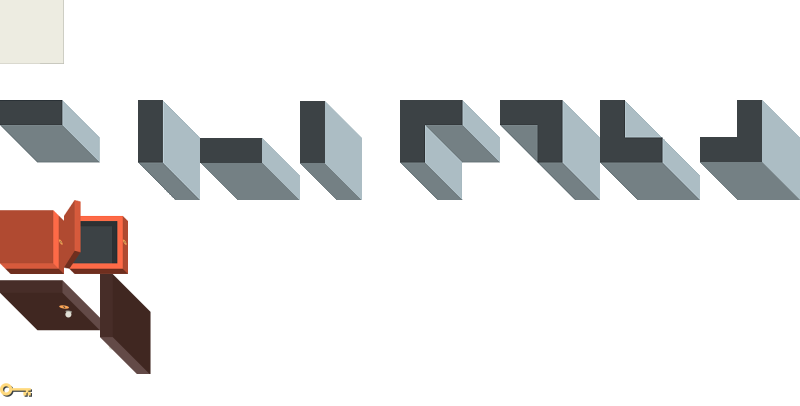
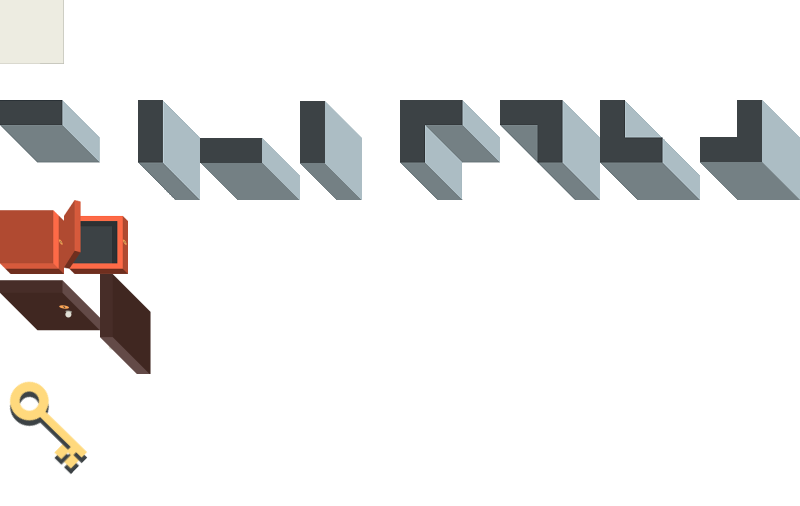
Cleaning up inventory

diff --git a/src/game/scenes/GameScene.js b/src/game/scenes/GameScene.js
@@ -23,25 +23,25 @@ export default class GameScene extends BaseScene {
             level1
         ]
 
-        var  game = new Game();
+        var game = new Game();
         game.init(levels);
         game.start();
 
         this.map = game.currentMap;
 
-       // var renderer = new GameRenderer(game, this, scale);
-        this.update();
+        // var renderer = new GameRenderer(game, this, scale);
+        this._update();
     }
 
-    update() {
-        this.render();
+    _update() {
+        this._render();
 
         if (this.map.levelComplete) {
             setTimeout(() => this.scene.start("levelcomplete"), 2000);
         }
     }
 
-    render() {
+    _render() {
         this.clear();
 
         this._renderFloor();
@@ -77,31 +77,40 @@ export default class GameScene extends BaseScene {
     _renderInventory() {
         var itemsWidth = this.map.inventory.items.length * (64 * this.scale);
 
-        // TODO: Figure out where these come from
-        var itemsX = ((this.game.config.width * this.scale) / 2) - (itemsWidth / 2);
-        var itemsY = (this.game.config.width * this.scale) + (200 * this.scale);
+        // Draw inventory box
+        var rect = this.drawRectangle(this.game.config.width / 2, this._posToPix(18), this.game.config.width - 100, 200, 0xEDECE1);
+        rect.setOrigin(.5);
 
-        for (var i = 0; i < this.map.inventory.items.length; i++) {
-            var item = this.map.inventory.items[i];
-            var x = itemsX + (i * (64 * this.scale));
+        var itemsX = (this.game.config.width) / 2;
+        var itemsY = this._posToPix(18);
 
-            if (this.map.inventory.selectedItem == item) {
-                this.drawCircle(x, itemsY, (32 * this.scale), "#fff")
+        if (this.map.inventory.items.length == 0) {
+            this.drawText(rect.x, rect.y, "Inventory is empty", "#DDD");
+        } else {
+            for (var i = 0; i < this.map.inventory.items.length; i++) {
+                var item = this.map.inventory.items[i];
+
+                var x = itemsX + (i * (64 * this.scale));
+
+                if (this.map.inventory.selectedItem == item) {
+                    this.drawCircle(x, itemsY, 64, 0xB04A31)
+                }
+
+                var image = this.drawImage(x, itemsY, item.imageName, 1, 1);
+                image.setOrigin(.5);
+
+                this.setOnTap(image, () => {
+                    this.map.selectItem(item);
+                    this._update();
+                });
             }
-
-            var image = this.drawImage(x, itemsY, item.imageName);
-
-            this.setOnTap(image, () => {
-                this.map.selectItem(item);
-                this.update();
-            });
         }
     }
 
     _setObjectOnTap(tile, object) {
         this.setOnTap(tile, () => {
             this.map.trigger('tap', object.id);
-            this.update();
+            this._update();
         });
     }
 

diff --git a/src/game/scenes/BaseScene.js b/src/game/scenes/BaseScene.js
@@ -11,7 +11,7 @@ export default class BaseScene extends Phaser.Scene {
     }
 
     addSeparator(size, position) {
-        this.add.rectangle(this.game.config.width / 2, this._posToPix(position), size, 4, 0xEDECE1);
+        return this.drawRectangle(this.game.config.width / 2, this._posToPix(position), size, 4, 0xEDECE1);
     }
 
     addText(text, fontSize, position) {
@@ -53,33 +53,41 @@ export default class BaseScene extends Phaser.Scene {
         return tile;
     }
 
-    drawImage(x, y, frame, depth) {
+    drawImage(x, y, frame, depth, scale) {
         var image = this.add.image(x, y);
         image.setTexture('map');
         image.setFrame(frame)
         image.setDepth(depth);
-        image.setScale(this.scale);
+        image.setScale(scale ? scale : this.scale);
 
         this.images.push(image);
         return image;
     }
 
     drawCircle(x, y, radius, color) {
-        var circle = this.add.circle(x * this.scale, y * this.scale, radius, color);
+        var circle = this.add.circle(x, y, radius, color);
         this.images.push(circle);
+        return circle;
     }
 
-    drawText(x, y, text) {
-        var txt = this.add.text((500 * this.scale) / 2, y, text, { 
+    drawRectangle(x, y, width, height, color) {
+        var rect = this.add.rectangle(x, y, width, height, color);
+        this.images.push(rect);
+        return rect;
+    }
+
+    drawText(x, y, text, color) {
+        var txt = this.add.text(this.game.config.width / 2, y, text, { 
             fontFamily: 'Abril', 
             align: 'center',
             fontSize: 52, 
-            color: '#EDECE1',
-            wordWrap: { width: 500 * this.scale },
+            color: color ? color : '#EDECE1'
         });
+        
         txt.setOrigin(.5)
 
         this.images.push(txt);
+        return txt;
     }
 
     setOnTap(element, event) {

diff --git a/src/app.js b/src/app.js
@@ -13,7 +13,7 @@ var config = {
     physics: {
         default: 'arcade',
     },
-    scene: [ MainMenuScene, GameScene, LevelCompleteScene ]
+    scene: [ GameScene, LevelCompleteScene ]
 };
 
 var ui = new Phaser.Game(config);
